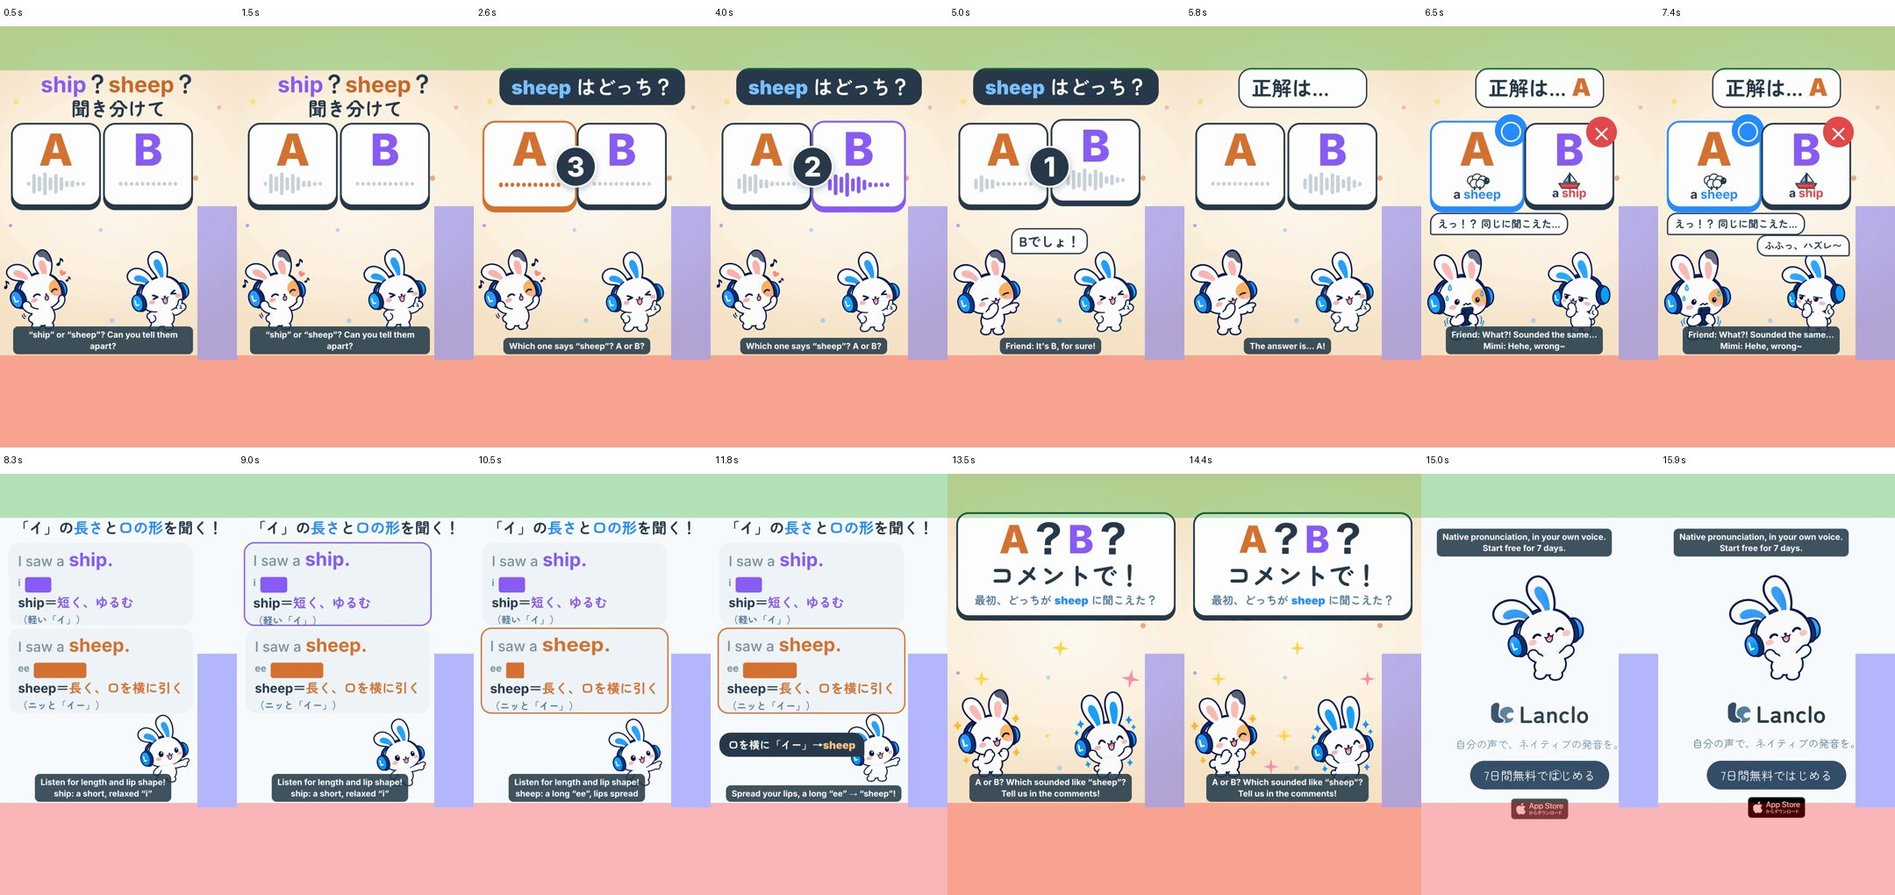
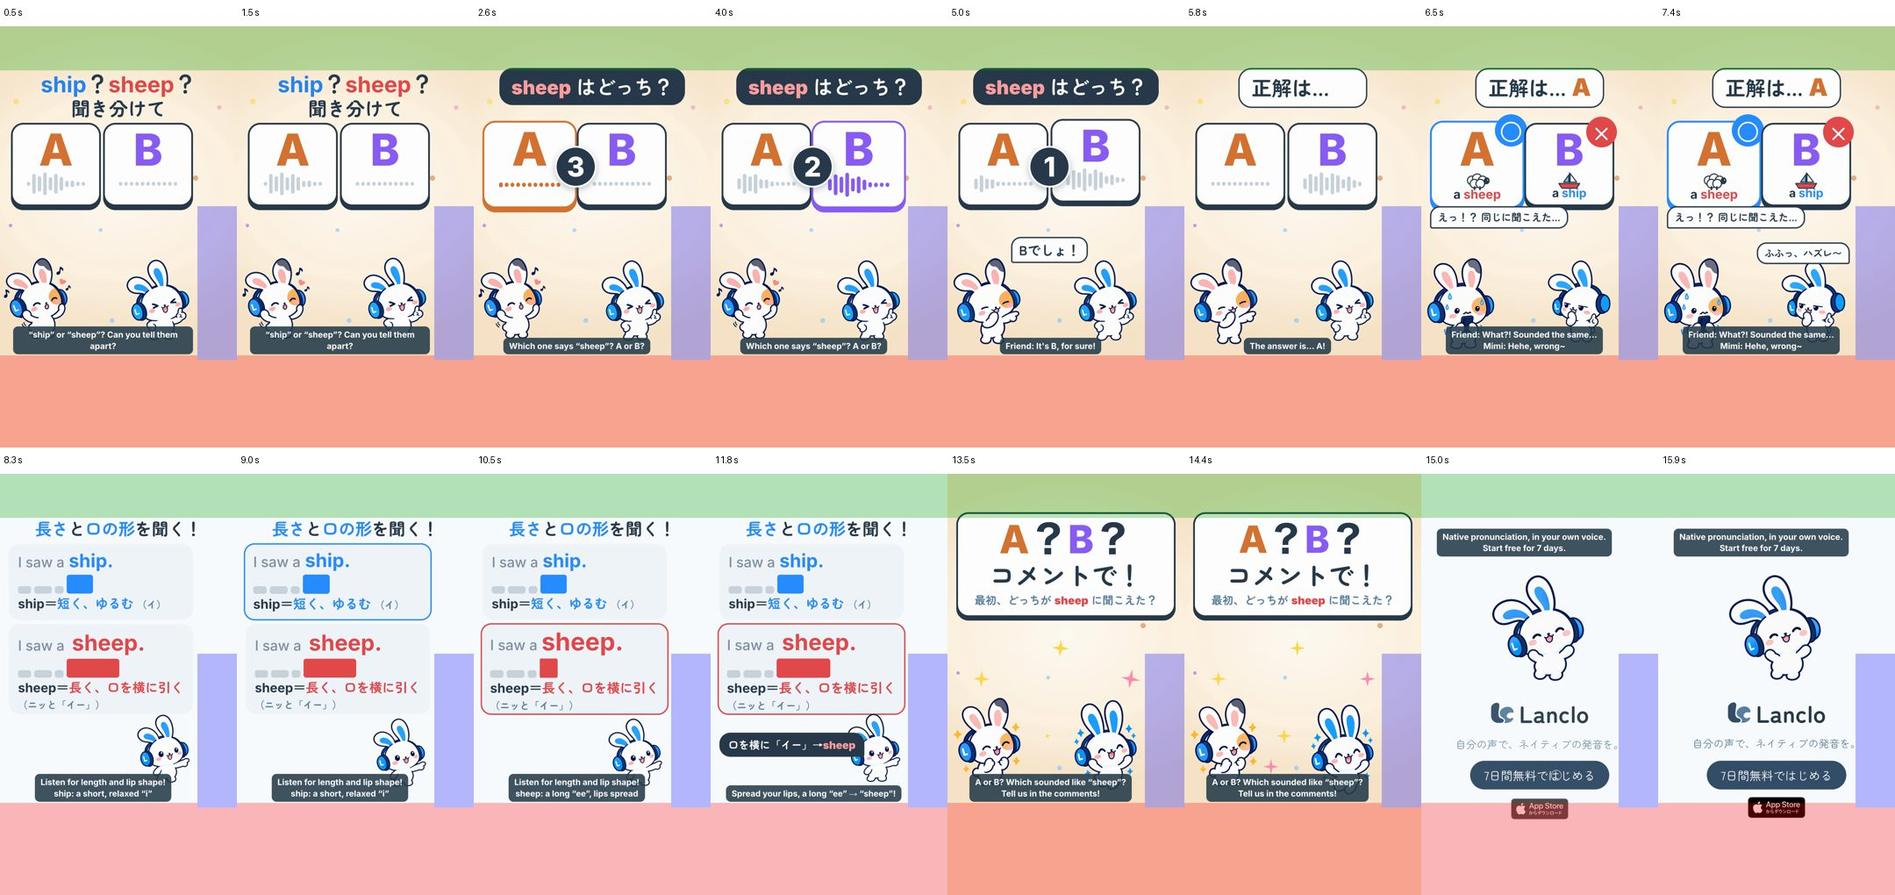
078 Ship or Sheep draft v2: match episode 1 colours and styles
Owner: the colours drifted from the series. ship blue / sheep red like
can / can't; A/B cards unchanged; rule card styling back to episode 1.

diff --git a/films/mimi-hear-ship/source/hf/index.html b/films/mimi-hear-ship/source/hf/index.html
@@ -17,12 +17,11 @@
       /* hook */
       #hook { position: absolute; left: 30px; right: 30px; top: 200px; text-align: center; font-size: 100px; font-weight: 700; line-height: 1.15; color: #273b4b; }
       #hook .en { font-family: "Helvetica Neue", Arial, sans-serif; color: #2886f3; }
-      #hook .en.sh { color: #8a5cf6; }
-      #hook .en.neg { color: #c96a2c; }
+      #hook .en.neg { color: #e5484d; }
       #hook .s { display: block; font-size: 86px; }
       #q { position: absolute; left: 0; right: 0; top: 190px; display: flex; justify-content: center; }
       #q span { background: #273b4b; color: #ffffff; font-size: 88px; font-weight: 700; padding: 18px 54px 24px; border-radius: 60px; }
-      #q b { font-family: "Helvetica Neue", Arial, sans-serif; color: #7cc0ff; }
+      #q b { font-family: "Helvetica Neue", Arial, sans-serif; color: #ff9ea1; }
       /* option cards */
       .opt { position: absolute; top: 440px; width: 410px; height: 380px; border-radius: 56px; background: #ffffff; border: 8px solid #273b4b;
              box-shadow: 0 18px 0 #273b4b; display: flex; flex-direction: column; align-items: center; padding-top: 14px; }
@@ -35,8 +34,8 @@
       .opt .bars i { display: block; width: 16px; height: 18px; border-radius: 8px; background: #c9d3dc; }
       .opt .ans { position: absolute; left: 10px; right: 10px; bottom: 20px; text-align: center; font-family: "Helvetica Neue", Arial, sans-serif;
                   font-size: 54px; font-weight: 700; color: #273b4b; opacity: 0; }
-      .opt .ans u { text-decoration: none; color: #2a8dff; }
-      #opt-b .ans u { color: #e5484d; }
+      .opt .ans u { text-decoration: none; color: #e5484d; }
+      #opt-b .ans u { color: #2a8dff; }
       .opt .ico { position: absolute; left: 50%; top: 212px; width: 118px; height: 86px; margin-left: -59px; opacity: 0; }
       .opt .mark { position: absolute; right: -20px; top: -36px; width: 140px; height: 140px; border-radius: 50%; display: flex; align-items: center; justify-content: center;
                    font-size: 100px; font-weight: 700; color: #ffffff; opacity: 0; }
@@ -49,44 +48,43 @@
               font-size: 124px; font-weight: 800; color: #ffffff; opacity: 0; }
       /* the two bunnies */
       .cast { position: absolute; height: auto; transform-origin: 50% 100%; }
-      .friend { left: 20px; top: 1010px; width: 320px; }
-      .mimi { left: 570px; top: 1020px; width: 300px; }
+      .friend { left: 20px; top: 1050px; width: 320px; }
+      .mimi { left: 570px; top: 1060px; width: 300px; }
       .say { position: absolute; background: #ffffff; border: 6px solid #273b4b; border-radius: 44px; padding: 14px 30px 18px;
              font-size: 54px; font-weight: 700; line-height: 1.25; color: #273b4b; white-space: nowrap; }
       .say em { font-style: normal; color: #e5484d; font-family: "Helvetica Neue", Arial, sans-serif; }
-      #f-say { left: 290px; top: 920px; border-bottom-left-radius: 10px; font-size: 60px; }
-      #f-oops { left: 40px; top: 850px; font-size: 46px; border-bottom-left-radius: 10px; }
-      #m-say { left: 450px; top: 950px; font-size: 44px; border-bottom-right-radius: 10px; }
+      #f-say { left: 290px; top: 960px; border-bottom-left-radius: 10px; font-size: 60px; }
+      #f-oops { left: 40px; top: 820px; font-size: 46px; border-bottom-left-radius: 10px; }
+      #m-say { left: 450px; top: 985px; font-size: 44px; border-bottom-right-radius: 10px; }
       #answer { position: absolute; left: 0; right: 0; top: 190px; display: flex; justify-content: center; }
       #answer span { background: #ffffff; border: 6px solid #273b4b; color: #273b4b; font-size: 92px; font-weight: 700; padding: 14px 54px 22px; border-radius: 60px; }
       #answer b { display: inline-block; font-family: "Helvetica Neue", Arial, sans-serif; color: #d57333; font-size: 110px; }
       /* the rule card */
       #rule { position: absolute; inset: 0; background: #fbfcfd; }
-      #r-title { position: absolute; left: 50px; right: 50px; top: 200px; text-align: center; font-size: 68px; white-space: nowrap; font-weight: 700; color: #273b4b; line-height: 1.25; }
+      #r-title { position: absolute; left: 50px; right: 50px; top: 200px; text-align: center; font-size: 76px; white-space: nowrap; font-weight: 700; color: #273b4b; line-height: 1.25; }
       #r-title em { font-style: normal; color: #2a8dff; }
       #r-title s { font-family: "Helvetica Neue", Arial, sans-serif; font-size: 88px; text-decoration-thickness: 9px; text-decoration-color: #e5484d; color: #273b4b; }
       .row { position: absolute; left: 40px; right: 200px; height: 380px; border-radius: 48px; background: #f1f5f9; border: 6px solid transparent;
              padding: 24px 36px; }
-      #row-ship { top: 315px; height: 375px; }
-      #row-sheep { top: 705px; height: 385px; }
+      #row-ship { top: 320px; height: 345px; }
+      #row-sheep { top: 685px; height: 410px; }
       .row .en { font-family: "Helvetica Neue", Arial, sans-serif; font-size: 84px; font-weight: 700; color: #273b4b; line-height: 1.1; white-space: nowrap; }
       .row .en .w { font-size: 64px; color: #7e90a0; font-weight: 500; }
-      #row-ship .en .st { display: inline-block; color: #8a5cf6; }
-      #row-sheep .en .st { display: inline-block; color: #d57333; }
+      #row-ship .en .st { color: #2a8dff; }
+      #row-sheep .en .st { display: inline-block; color: #e5484d; font-size: 100px; }
       .row .syl { display: flex; align-items: flex-end; gap: 14px; height: 90px; margin: 14px 0 8px; }
       .row .syl i { display: block; border-radius: 12px; background: #c9d3dc; }
-      .row .syl b { align-self: center; font-family: "Helvetica Neue", Arial, sans-serif; font-size: 44px; color: #7e90a0; margin-right: 6px; }
-      #row-ship .syl i.hi { background: #8a5cf6; }
-      #row-sheep .syl i.hi { background: #d57333; }
+      #row-ship .syl i.hi { background: #2a8dff; }
+      #row-sheep .syl i.hi { background: #e5484d; }
       .row .rl { font-size: 58px; font-weight: 700; color: #273b4b; line-height: 1.2; }
       .row .rl .kw { font-family: "Helvetica Neue", Arial, sans-serif; }
-      #row-ship .rl em { font-style: normal; color: #8a5cf6; }
-      #row-sheep .rl em { font-style: normal; color: #d57333; }
+      #row-ship .rl em { font-style: normal; color: #2a8dff; }
+      #row-sheep .rl em { font-style: normal; color: #e5484d; }
       .row .rl small { font-size: 44px; color: #5b7f9f; }
       #r-mimi { position: absolute; left: 620px; top: 1110px; width: 250px; height: auto; transform-origin: 50% 100%; }
       #r-hit { position: absolute; left: 40px; top: 1180px; background: #273b4b; color: #ffffff; font-size: 48px; font-weight: 700; padding: 18px 40px 22px;
                border-radius: 50px; border-bottom-right-radius: 10px; white-space: nowrap; }
-      #r-hit b { color: #ffc08a; font-family: "Helvetica Neue", Arial, sans-serif; }
+      #r-hit b { color: #ff9ea1; font-family: "Helvetica Neue", Arial, sans-serif; }
       /* ask for a comment */
       #ask { position: absolute; left: 40px; right: 40px; top: 175px; background: #ffffff; border-radius: 56px; border: 8px solid #273b4b; box-shadow: 0 16px 0 #273b4b;
              text-align: center; padding: 26px 20px 36px; }
@@ -95,7 +93,7 @@
       #ask .ab .b { color: #8a5cf6; }
       #ask .big { display: block; font-size: 116px; font-weight: 700; color: #273b4b; line-height: 1.2; }
       #ask .small { display: block; font-size: 50px; font-weight: 700; color: #5b7f9f; margin-top: 10px; }
-      #ask .small b { font-family: "Helvetica Neue", Arial, sans-serif; color: #2a8dff; }
+      #ask .small b { font-family: "Helvetica Neue", Arial, sans-serif; color: #e5484d; }
       .sparkles { position: absolute; inset: 0; }
       /* English subtitles: just above the bottom safe zone (under the feet). <body class="no-subs"> renders the Japanese-only cut. */
       body.no-subs .sub { display: none; }
@@ -121,7 +119,7 @@
       <img id="mimi2" class="cast mimi clip" src="assets/art/pose-tease.webp" alt="" data-start="6.1" data-duration="1.8" data-track-index="5" />
       <img id="mimi3" class="cast mimi clip" src="assets/art/pose-jump.webp" alt="" data-start="13.1" data-duration="1.7" data-track-index="5" />
 
-      <div id="hook" class="clip" data-start="0" data-duration="1.8" data-track-index="6"><span class="en sh">ship</span>？<span class="en neg">sheep</span>？<span class="s">聞き分けて</span></div>
+      <div id="hook" class="clip" data-start="0" data-duration="1.8" data-track-index="6"><span class="en">ship</span>？<span class="en neg">sheep</span>？<span class="s">聞き分けて</span></div>
       <div id="q" class="clip" data-start="1.8" data-duration="3.7" data-track-index="6"><span><b>sheep</b> はどっち？</span></div>
       <div id="answer" class="clip" data-start="5.5" data-duration="2.4" data-track-index="6"><span>正解は… <b id="ans-b">A</b></span></div>
 
@@ -131,15 +129,15 @@
 
       <!-- rule: Mimi's card, both lines again -->
       <div id="rule" class="clip" data-start="7.9" data-duration="5.2" data-track-index="10">
-        <div id="r-title">「イ」の<em>長さ</em>と<em>口の形</em>を聞く！</div>
+        <div id="r-title"><em>長さ</em>と<em>口の形</em>を聞く！</div>
         <div id="row-ship" class="row">
           <div class="en"><span class="w">I saw a</span> <span class="st">ship.</span></div>
-          <div class="syl"><b>i</b><i class="hi" style="width:120px;height:70px"></i></div>
-          <div class="rl"><span class="kw">ship</span>＝<em>短く、ゆるむ</em><br /><small>（軽い「イ」）</small></div>
+          <div class="syl"><i style="width:60px;height:34px"></i><i style="width:80px;height:34px"></i><i style="width:40px;height:34px"></i><i class="hi" style="width:120px;height:86px"></i></div>
+          <div class="rl"><span class="kw">ship</span>＝<em>短く、ゆるむ</em> <small>（イ）</small></div>
         </div>
         <div id="row-sheep" class="row">
-          <div class="en"><span class="w">I saw a</span> <span class="st">sheep.</span></div>
-          <div class="syl"><b>ee</b><i class="hi" style="width:240px;height:70px"></i></div>
+          <div class="en"><span class="w">I saw a</span> <span class="st" style="margin-left: 14px">sheep.</span></div>
+          <div class="syl"><i style="width:60px;height:34px"></i><i style="width:80px;height:34px"></i><i style="width:40px;height:34px"></i><i class="hi" style="width:240px;height:86px"></i></div>
           <div class="rl"><span class="kw">sheep</span>＝<em>長く、口を横に引く</em><br /><small>（ニッと「イー」）</small></div>
         </div>
         <img id="r-mimi" src="assets/art/pose-point.webp" alt="" />
@@ -241,12 +239,14 @@
       tl.fromTo("#r-title", { y: 30, opacity: 0 }, { y: 0, opacity: 1, duration: 0.2, ease: "power3.out" }, RULE + 0.05);
       tl.fromTo(["#row-ship", "#row-sheep"], { y: 60, opacity: 0 }, { y: 0, opacity: 1, duration: 0.25, stagger: 0.1, ease: "power3.out" }, RULE + 0.1);
       tl.fromTo("#r-mimi", { y: 400 }, { y: 0, duration: 0.25, ease: "back.out(1.6)" }, RULE + 0.2);
-      tl.to("#row-ship", { borderColor: "#8a5cf6", scale: 1.02, duration: 0.15 }, RL1 - 0.1);
-      tl.fromTo("#row-ship .syl i", { scaleX: 0, transformOrigin: "0% 50%" }, { scaleX: 1, duration: 0.15, ease: "power2.out", immediateRender: false }, RL1 + 0.55);
+      tl.to("#row-ship", { borderColor: "#2a8dff", scale: 1.02, duration: 0.15 }, RL1 - 0.1);
+      tl.fromTo("#row-ship .syl i:not(.hi)", { scaleY: 0.3, transformOrigin: "50% 100%" }, { scaleY: 1, duration: 0.15, stagger: 0.12, ease: "back.out(2)", immediateRender: false }, RL1 + 0.05);
+      tl.fromTo("#row-ship .syl i.hi", { scaleX: 0, transformOrigin: "0% 50%" }, { scaleX: 1, duration: 0.15, ease: "power2.out", immediateRender: false }, RL1 + 0.55);
       tl.to("#row-ship", { borderColor: "rgba(0,0,0,0)", scale: 1, duration: 0.15 }, RL2 - 0.25);
-      tl.to("#row-sheep", { borderColor: "#d57333", scale: 1.02, duration: 0.15 }, RL2 - 0.1);
-      tl.fromTo("#row-sheep .syl i", { scaleX: 0, transformOrigin: "0% 50%" }, { scaleX: 1, duration: 0.3, ease: "none", immediateRender: false }, RL2 + 0.65);
-      tl.fromTo("#row-sheep .en .st", { scaleX: 1 }, { scaleX: 1.15, duration: 0.25, yoyo: true, repeat: 1, transformOrigin: "0% 80%", immediateRender: false }, RL2 + 0.65);
+      tl.to("#row-sheep", { borderColor: "#e5484d", scale: 1.02, duration: 0.15 }, RL2 - 0.1);
+      tl.fromTo("#row-sheep .syl i:not(.hi)", { scaleY: 0.3, transformOrigin: "50% 100%" }, { scaleY: 1, duration: 0.15, stagger: 0.12, ease: "back.out(2)", immediateRender: false }, RL2 + 0.05);
+      tl.fromTo("#row-sheep .syl i.hi", { scaleX: 0, transformOrigin: "0% 50%" }, { scaleX: 1, duration: 0.3, ease: "none", immediateRender: false }, RL2 + 0.65);
+      tl.fromTo("#row-sheep .en .st", { scale: 1 }, { scale: 1.12, duration: 0.18, yoyo: true, repeat: 1, transformOrigin: "50% 80%", immediateRender: false }, RL2 + 0.65);
       tl.fromTo("#r-mimi", { rotation: 0 }, { rotation: -4, duration: 0.3, yoyo: true, repeat: 7, ease: "sine.inOut", immediateRender: false }, RL1);
       tl.fromTo("#r-hit", { scale: 0.5, opacity: 0, transformOrigin: "100% 100%" }, { scale: 1, opacity: 1, duration: 0.2, ease: "back.out(2.5)" }, RULE_HIT);
       tl.fromTo("#r-mimi", { y: 0 }, { y: -30, duration: 0.15, yoyo: true, repeat: 3, ease: "power2.out", immediateRender: false }, RULE_HIT);

diff --git a/films/mimi-hear-ship/README.ja.md b/films/mimi-hear-ship/README.ja.md
@@ -2,9 +2,9 @@
 
 [English](README.md)
 
-Lanclo SNS ショート #078。シリーズ「Can You Hear It?（聞き分けクイズ）」第3話。視聴者はコメントで A / B を答える。16.2秒、1080×1920、60fps、2カット（日本語のみ／英語字幕つき）。ドラフト（2026-10-23、オーナー確認待ち）。
+Lanclo SNS ショート #078。シリーズ「Can You Hear It?（聞き分けクイズ）」第3話。視聴者はコメントで A / B を答える。16.2秒、1080×1920、60fps、2カット（日本語のみ／英語字幕つき）。ドラフト v2（2026-10-23、第1話と色を統一、オーナー確認待ち）。
 
-1フレーム目から A・B の2枚のカードとフック「ship？sheep？聞き分けて」。カウントダウン 3-2-1 の間に、オーナー本人の声（US）で “I saw a sheep.”（A）と “I saw a ship.”（B）が流れ、問いは「sheep はどっち？」。友だちは「Bでしょ！」。正解は A、カードの下に羊と船のアイコン、友だち「えっ！？ 同じに聞こえた…」、Mimi が「ふふっ、ハズレ〜」とにやり。Mimi のルールカード「「イ」の長さと口の形を聞く！」：ship＝短く、ゆるむ（軽い「イ」）、sheep＝長く、口を横に引く（ニッと「イー」）、母音の長さバーが伸びる、2文をもう一度、「口を横に「イー」→sheep」。最後に「A？B？コメントで！」とエンドカード。
+1フレーム目から A・B の2枚のカードとフック「ship？sheep？聞き分けて」。カウントダウン 3-2-1 の間に、オーナー本人の声（US）で “I saw a sheep.”（A）と “I saw a ship.”（B）が流れ、問いは「sheep はどっち？」。友だちは「Bでしょ！」。正解は A、カードの下に羊と船のアイコン、友だち「えっ！？ 同じに聞こえた…」、Mimi が「ふふっ、ハズレ〜」とにやり。Mimi のルールカード「長さと口の形を聞く！」：ship＝短く、ゆるむ（イ）、sheep＝長く、口を横に引く（ニッと「イー」）、母音の長さバーが伸びる、2文をもう一度、「口を横に「イー」→sheep」。最後に「A？B？コメントで！」とエンドカード。
 
 学習ポイント（アメリカ英語）：ship は短くゆるい /ɪ/、sheep は長く張った /iː/（口を横に引き、舌は高く前）。母音の長さと明るさを聞く。
 

diff --git a/films/mimi-hear-ship/README.md b/films/mimi-hear-ship/README.md
@@ -2,9 +2,9 @@
 
 [日本語](README.ja.md)
 
-Lanclo SNS short #078, episode 3 of the series “Can You Hear It?” (a listening quiz; viewers answer A / B in the comments). 16.2 s, 1080×1920, 60 fps, two cuts (Japanese only / English subtitles). Draft (2026-10-23), waiting for the owner's review.
+Lanclo SNS short #078, episode 3 of the series “Can You Hear It?” (a listening quiz; viewers answer A / B in the comments). 16.2 s, 1080×1920, 60 fps, two cuts (Japanese only / English subtitles). Draft v2 (2026-10-23, colours matched to episode 1), waiting for the owner's review.
 
-Two cards, A and B, and the hook 「ship？sheep？聞き分けて」 on frame 1. A countdown 3-2-1 while the owner's own voice (US model) plays “I saw a sheep.” (A) and “I saw a ship.” (B); the question is 「sheep はどっち？」. The Friend shouts 「Bでしょ！」; the answer is A, a sheep and a ship icon appear under the cards, the Friend 「えっ！？ 同じに聞こえた…」, Mimi grins 「ふふっ、ハズレ〜」. Mimi's rule card: 「「イ」の長さと口の形を聞く！」, ship＝短く、ゆるむ（軽い「イ」）, sheep＝長く、口を横に引く（ニッと「イー」）, a vowel-length bar per row grows while the vowel plays, both lines again, 「口を横に「イー」→sheep」. Then 「A？B？コメントで！」 and the end card.
+Two cards, A and B, and the hook 「ship？sheep？聞き分けて」 on frame 1. A countdown 3-2-1 while the owner's own voice (US model) plays “I saw a sheep.” (A) and “I saw a ship.” (B); the question is 「sheep はどっち？」. The Friend shouts 「Bでしょ！」; the answer is A, a sheep and a ship icon appear under the cards, the Friend 「えっ！？ 同じに聞こえた…」, Mimi grins 「ふふっ、ハズレ〜」. Mimi's rule card: 「長さと口の形を聞く！」, ship＝短く、ゆるむ（イ）, sheep＝長く、口を横に引く（ニッと「イー」）, a vowel-length bar per row grows while the vowel plays, both lines again, 「口を横に「イー」→sheep」. Then 「A？B？コメントで！」 and the end card.
 
 Learning point (US English): ship has the short, lax /ɪ/ (relaxed lips and tongue); sheep has the long, tense /iː/ (lips spread, tongue high and front). Listen for the length and the brightness of the vowel.
 

diff --git a/films/mimi-hear-ship/PROMPT.md b/films/mimi-hear-ship/PROMPT.md
@@ -1,11 +1,11 @@
 # PROMPT (consolidated; not the original request)
 
-Make Lanclo SNS short #078 “Can You Hear It? 3 - Ship or Sheep”, episode 3 of the listening-quiz series “Can You Hear It?” (viewers answer A / B in the comments). Copy films/mimi-hear-can/source (beat ids, layout, the -14 LUFS post-gain step). Mimi + Friend only, 2D official style, fast tempo, about 16 s.
+Make Lanclo SNS short #078 “Can You Hear It? 3 - Ship or Sheep”, episode 3 of the listening-quiz series “Can You Hear It?” (viewers answer A / B in the comments). Copy films/mimi-hear-can/source (beat ids, layout, the -14 LUFS post-gain step). Mimi + Friend only, 2D official style, fast tempo, about 16 s. Same look as episode 1: ship blue, sheep red (like can / can't), A / B cards orange / purple.
 
 - Frame 1: two big cards A / B and the hook 「ship？sheep？聞き分けて」.
 - Play: 「sheep はどっち？」; a countdown 3-2-1 while the owner's own voice (`us`) plays “I saw a sheep.” (A) and “I saw a ship.” (B); which is which is shown only at the reveal. The Friend guesses B.
 - Reveal: 正解は… A, a sheep and a ship icon under the cards. The Friend is shocked (「えっ！？ 同じに聞こえた…」), Mimi grins (「ふふっ、ハズレ〜」).
-- Rule card: 「「イ」の長さと口の形を聞く！」; ship＝短く、ゆるむ（軽い「イ」）/ sheep＝長く、口を横に引く（ニッと「イー」）, a vowel-length bar per row that grows while the vowel plays, both lines again; 「口を横に「イー」→sheep」.
+- Rule card: 「長さと口の形を聞く！」; ship＝短く、ゆるむ（イ）/ sheep＝長く、口を横に引く（ニッと「イー」）, a vowel-length bar per row that grows while the vowel plays, both lines again; 「口を横に「イー」→sheep」.
 - Ask: 「A？B？コメントで！」 (最初、どっちが sheep に聞こえた？). End card 「自分の声で、ネイティブの発音を。」 + 「7日間無料ではじめる」 tap with `sfx.pochi()`.
 - Verify acoustically that the /ɪ/ of ship is short with a higher F1 / lower F2 and the /iː/ of sheep is longer with a low F1 / high F2 (Praat), never by a transcript.
 - Theme BGM at kit level, soft SFX, -14 LUFS. Captions at the top, platform safe zones kept. Two cuts: Japanese only and English subtitles.

diff --git a/films/mimi-hear-ship/PROCESS.md b/films/mimi-hear-ship/PROCESS.md
@@ -29,6 +29,13 @@
 7. Safe zones: overlay sheet of the EN cut every ~1.5 s ([process/01-safe-zones.jpg](process/01-safe-zones.jpg)): subtitles end at y 1495 within x 60–880; no text, bubble or face in the right rail (Mimi x 570–870, rule Mimi x 620–870); top texts start at y ≥ 200.
 8. Delivery: both cuts 1080×1920, 60 fps, 16.2 s, no rotation side data, -14.2 LUFS, -1.8 dBTP. Drive: `Hear3_Ship_draft_2026-10-23.mp4`, `Hear3_Ship_draft_EN-subs_2026-10-23.mp4`.
 
+## Draft v2 (2026-10-23, owner review)
+
+- Owner: 「078みた。フォントの色とか変わってる？統一感出して過去と」
+- Commander: episode 1 colours the two target words blue #2a8dff / red #e5484d (hook, question pill, card answers, rule card); v1 had switched them to the A / B card colours (purple / orange) and drifted in other styles.
+- Fix: the A / B cards keep episode 1's colours (A orange, B purple); ship = blue, sheep = red everywhere, like can / can't (hook, 「sheep はどっち？」 pill in episode 1's light red #ff9ea1 on navy, answers under the cards, rule rows, bars, borders and highlights, the 「口を横に「イー」→sheep」 pill, the ask line). ○ blue / × red marks as in episode 1. The style block now differs from episode 1 only in content: rule title back to 76 px (text shortened to 「長さと口の形を聞く！」), row tops / heights 320 / 345 and 685 / 410, the long word 100 px like CAN'T, grey syllable bars for “I saw a” plus the coloured vowel bar (ship 120 px, sheep 240 px), cast and bubble positions back to episode 1's; removed #c96a2c, #ffc08a and the extra grey bar labels. The card icons stay (content).
+- Side by side with episode 1: [process/02-v2-vs-061.jpg](process/02-v2-vs-061.jpg). Safe zones re-checked ([process/01-safe-zones.jpg](process/01-safe-zones.jpg)). Audio unchanged (-14.2 LUFS, -1.8 dBTP). v1 drafts moved to Drive `old/` with a `_v1` suffix.
+
 ## Open questions
 
 - Owner's ear on the final sheep take (direction “only the vowel long”): does the sentence still sound natural next to the ship take?
